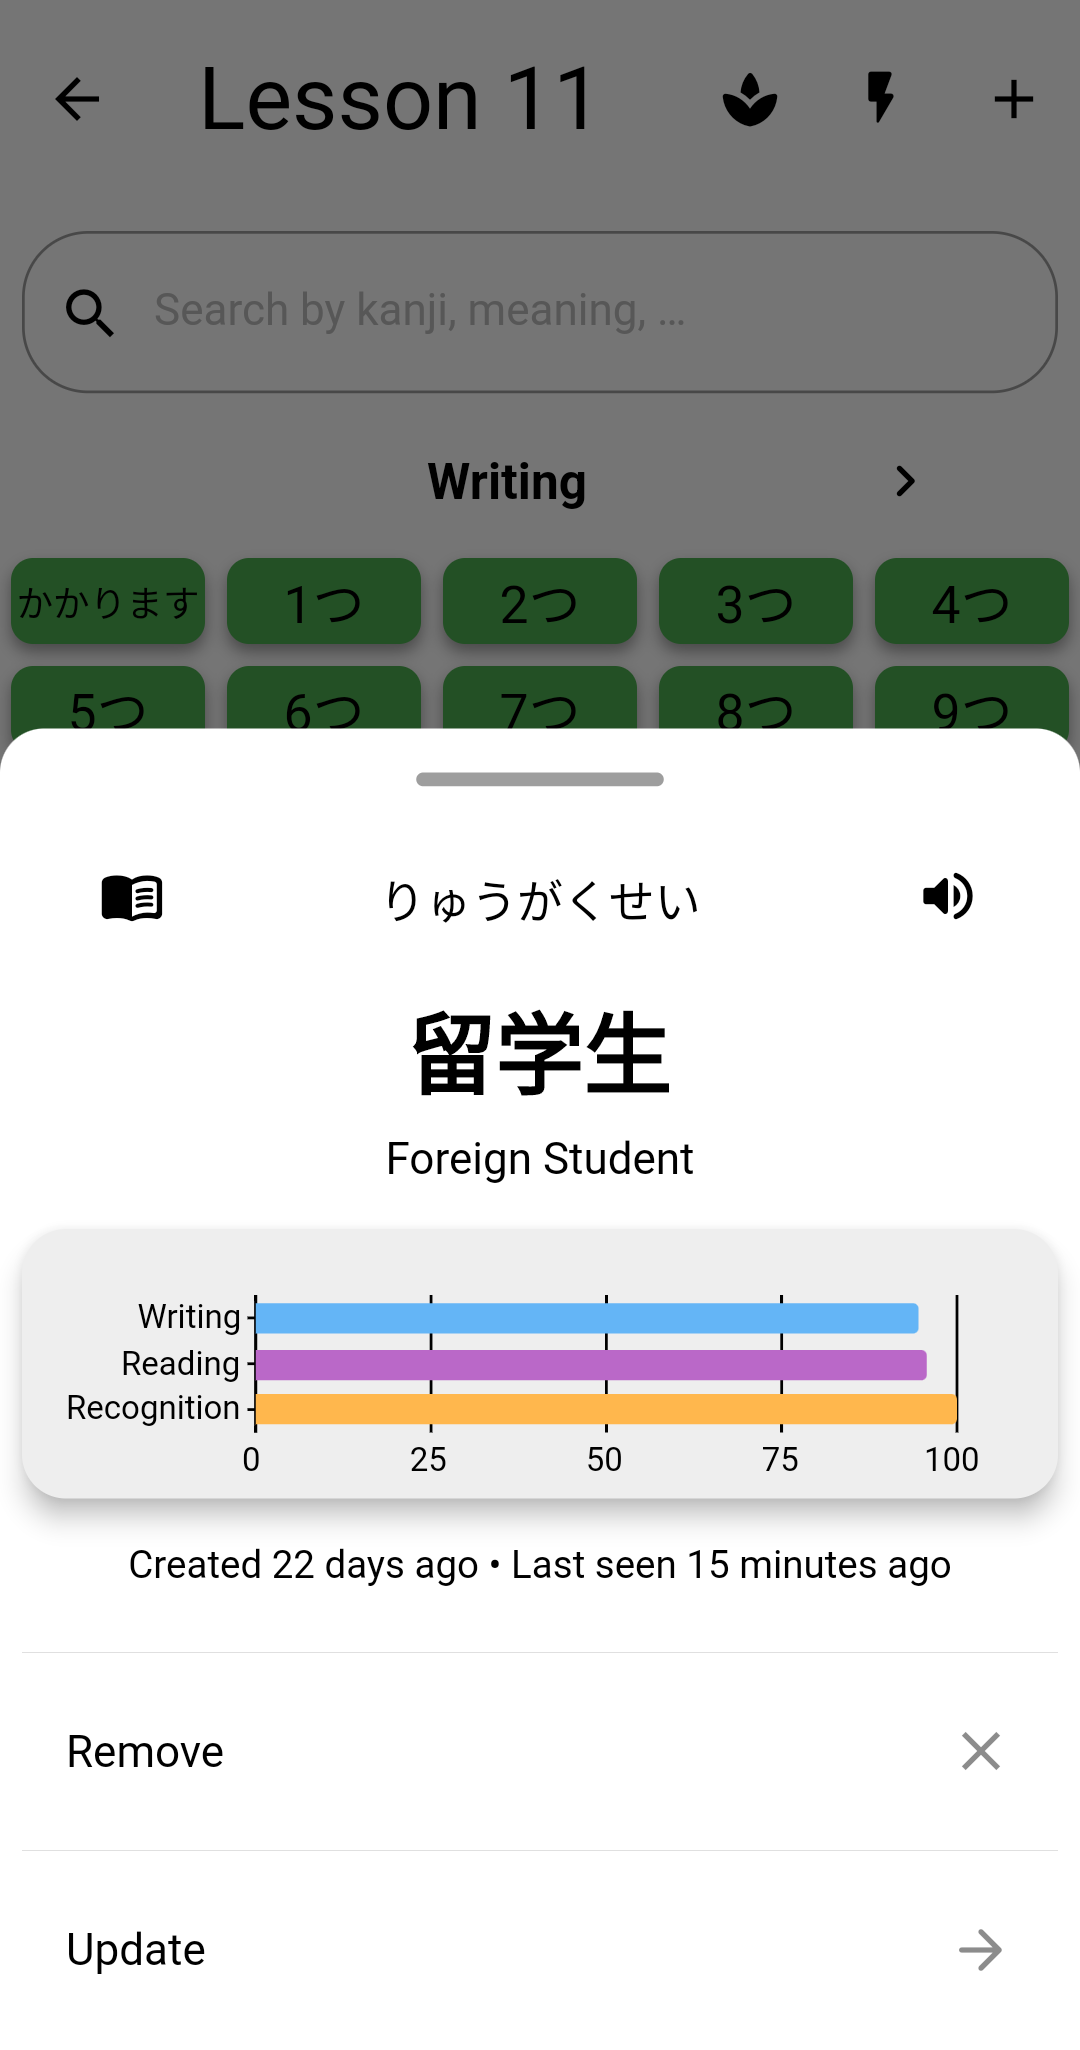
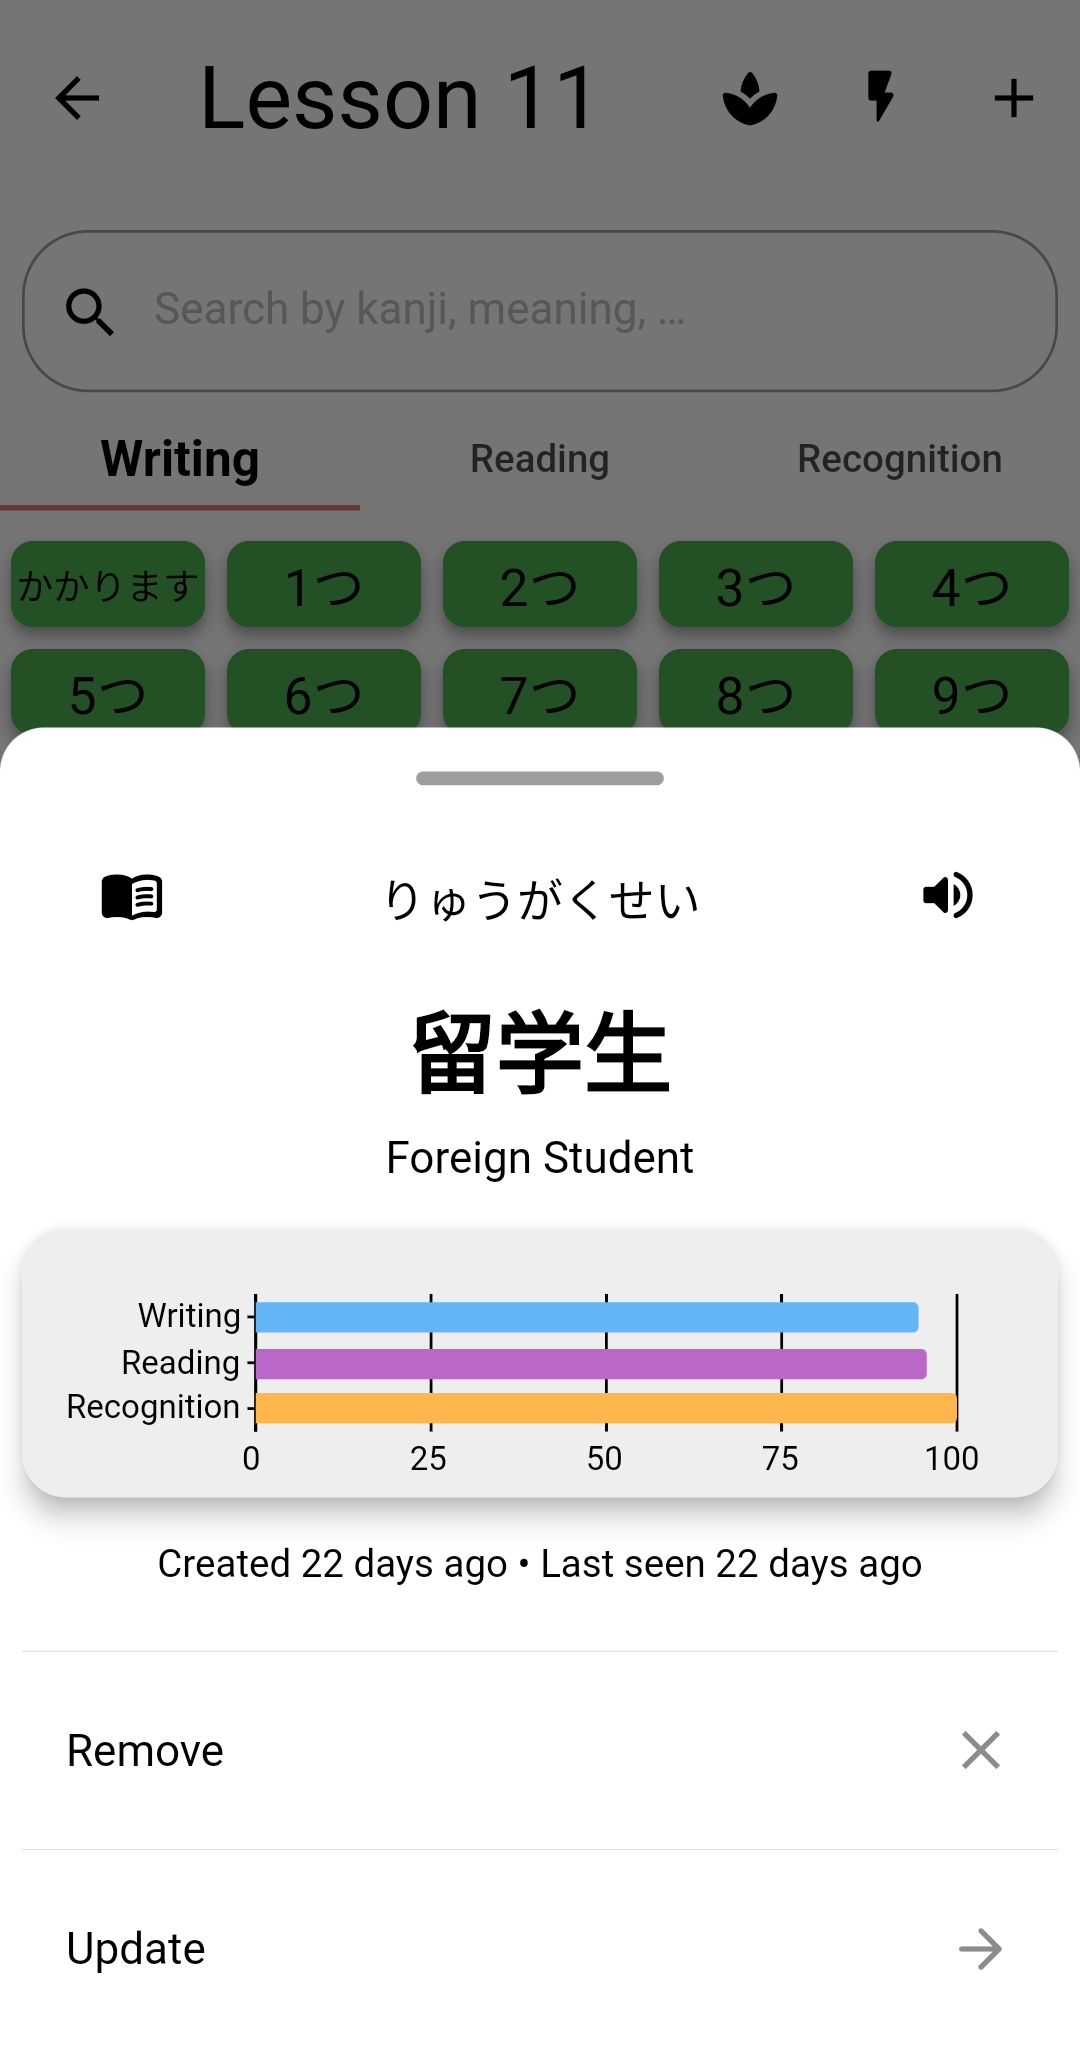
Changed mode view in kan list details

diff --git a/lib/ui/pages/kanji_list_details/list_details.dart b/lib/ui/pages/kanji_list_details/list_details.dart
@@ -47,10 +47,10 @@ class KanjiListDetails extends StatefulWidget {
   _KanjiListDetailsState createState() => _KanjiListDetailsState();
 }
 
-class _KanjiListDetailsState extends State<KanjiListDetails> {
+class _KanjiListDetailsState extends State<KanjiListDetails> with SingleTickerProviderStateMixin {
   KanjiListDetailBloc _bloc = KanjiListDetailBloc();
-  PageController _controller = PageController();
   FocusNode? _searchBarFn;
+  TabController? _tabController;
   StudyModes _selectedMode = StudyModes.writing;
   LearningMode _learningMode = LearningMode.spatial;
 
@@ -60,6 +60,8 @@ class _KanjiListDetailsState extends State<KanjiListDetails> {
   @override
   void initState() {
     _searchBarFn = FocusNode();
+    _tabController = TabController(length: StudyModes.values.length, vsync: this);
+    _tabController?.addListener(_tabControllerManagement);
     _searchBarFn?.addListener(_focusListener);
     _listName = widget.list.name;
     super.initState();
@@ -69,8 +71,15 @@ class _KanjiListDetailsState extends State<KanjiListDetails> {
   void dispose() {
     _searchBarFn?.removeListener(_focusListener);
     _searchBarFn?.dispose();
-    _controller.dispose();
+    _tabController?.dispose();
     super.dispose();
+  }
+
+  _tabControllerManagement() {
+    _searchBarFn?.unfocus();
+    setState(() {
+      _selectedMode = StudyModes.values[_tabController?.index ?? 0];
+    });
   }
 
   _focusListener() => setState(() => _searchHasFocus = (_searchBarFn?.hasFocus ?? false));
@@ -110,47 +119,34 @@ class _KanjiListDetailsState extends State<KanjiListDetails> {
     else GeneralUtils.getSnackBar(context, "list_details_loadUpPractice_failed".tr());
   }
 
-  _onChangePage(int newPage) {
+  _onModeChange(StudyModes newMode) {
     _searchBarFn?.unfocus();
     setState(() {
-      if (newPage == 0) _selectedMode = StudyModes.writing;
-      else if (newPage == 1) _selectedMode = StudyModes.reading;
+      if (newMode == StudyModes.writing) _selectedMode = StudyModes.writing;
+      else if (newMode == StudyModes.reading) _selectedMode = StudyModes.reading;
       else _selectedMode = StudyModes.recognition;
     });
-    _controller.animateToPage(newPage, duration: Duration(milliseconds: CustomAnimations.ms300),
+    _tabController?.animateTo(newMode.index,
+        duration: Duration(milliseconds: CustomAnimations.ms300),
         curve: Curves.easeInOut);
   }
 
   _updateSelectedModePageView(double pv) {
-    // Swiping in right direction.
-    if (pv < 0) {
-      switch (_selectedMode) {
-        case StudyModes.writing:
-          _onChangePage(1);
-          break;
-        case StudyModes.reading:
-          _onChangePage(2);
-          break;
-        case StudyModes.recognition:
-        default:
-          break;
-      }
-    }
-    // Swiping in left direction.
-    if (pv > 0) {
-      switch (_selectedMode) {
-        case StudyModes.reading:
-          _onChangePage(0);
-          break;
-        case StudyModes.recognition:
-          _onChangePage(1);
-          break;
-        case StudyModes.writing:
-        default:
-          break;
-      }
+    switch (_selectedMode) {
+      case StudyModes.writing:
+        if (pv < 0) _onModeChange(StudyModes.reading);
+        break;
+      case StudyModes.reading:
+        if (pv < 0) _onModeChange(StudyModes.recognition);
+        else if (pv > 0) _onModeChange(StudyModes.writing);
+        break;
+      case StudyModes.recognition:
+        if (pv > 0) _onModeChange(StudyModes.reading);
+        break;
     }
   }
+
+  _addLoadingEvent() => _bloc..add(KanjiEventLoading(_listName));
 
   _updateName(String name) {
     if (name.isNotEmpty) _bloc..add(UpdateKanList(name, _listName));
@@ -179,8 +175,6 @@ class _KanjiListDetailsState extends State<KanjiListDetails> {
     });
   }
 
-  _addLoadingEvent() => _bloc..add(KanjiEventLoading(_listName));
-
   @override
   Widget build(BuildContext context) {
     return WillPopScope(
@@ -192,52 +186,7 @@ class _KanjiListDetailsState extends State<KanjiListDetails> {
         } else return true;
       },
       child: Scaffold(
-        appBar: AppBar(
-          toolbarHeight: CustomSizes.appBarHeight,
-          title: BlocProvider<KanjiListDetailBloc>(
-            create: (_) => _addLoadingEvent(),
-            child: BlocBuilder<KanjiListDetailBloc, KanjiListDetailState>(
-              builder: (context, state) {
-                if (state is KanjiListDetailStateLoaded) {
-                  _listName = state.name;
-                  return FittedBox(
-                    fit: BoxFit.fitWidth,
-                    child: GestureDetector(
-                      onTap: () async => await _updateKanListName(),
-                      child: Text(state.name, overflow: TextOverflow.ellipsis),
-                    )
-                  );
-                }
-                else return Container();
-              },
-            ),
-          ),
-          actions: [
-            IconButton(
-              icon: Icon(_learningMode == LearningMode.spatial
-                  ? LearningMode.spatial.icon
-                  : LearningMode.random.icon),
-              onPressed: () => setState(() {
-                if (_learningMode == LearningMode.spatial) _learningMode = LearningMode.random;
-                else _learningMode = LearningMode.spatial;
-              }),
-            ),
-            IconButton(
-              onPressed: () async => await BlitzBottomSheet.callBlitzModeBottomSheet(
-                context, practiceList: _listName
-              ),
-              icon: Icon(Icons.flash_on_rounded),
-            ),
-            IconButton(
-              onPressed: () async {
-                await Navigator.of(context).pushNamed(KanPracticePages.addKanjiPage,
-                    arguments: AddKanjiArgs(listName: _listName))
-                    .then((code) => _addLoadingEvent());
-              },
-              icon: Icon(Icons.add),
-            ),
-          ],
-        ),
+        appBar: _appBar(),
         body: BlocProvider<KanjiListDetailBloc>(
           create: (_) => _addLoadingEvent(),
           child: SingleChildScrollView(
@@ -281,20 +230,67 @@ class _KanjiListDetailsState extends State<KanjiListDetails> {
     );
   }
 
+  AppBar _appBar() {
+    return AppBar(
+      toolbarHeight: CustomSizes.appBarHeight,
+      title: BlocProvider<KanjiListDetailBloc>(
+        create: (_) => _addLoadingEvent(),
+        child: BlocBuilder<KanjiListDetailBloc, KanjiListDetailState>(
+          builder: (context, state) {
+            if (state is KanjiListDetailStateLoaded) {
+              _listName = state.name;
+              return FittedBox(
+                  fit: BoxFit.fitWidth,
+                  child: GestureDetector(
+                    onTap: () async => await _updateKanListName(),
+                    child: Text(state.name, overflow: TextOverflow.ellipsis),
+                  )
+              );
+            }
+            else return Container();
+          },
+        ),
+      ),
+      actions: [
+        IconButton(
+          icon: Icon(_learningMode == LearningMode.spatial
+              ? LearningMode.spatial.icon
+              : LearningMode.random.icon),
+          onPressed: () => setState(() {
+            if (_learningMode == LearningMode.spatial) _learningMode = LearningMode.random;
+            else _learningMode = LearningMode.spatial;
+          }),
+        ),
+        IconButton(
+          onPressed: () async => await BlitzBottomSheet.callBlitzModeBottomSheet(
+              context, practiceList: _listName
+          ),
+          icon: Icon(Icons.flash_on_rounded),
+        ),
+        IconButton(
+          onPressed: () async {
+            await Navigator.of(context).pushNamed(KanPracticePages.addKanjiPage,
+                arguments: AddKanjiArgs(listName: _listName))
+                .then((code) => _addLoadingEvent());
+          },
+          icon: Icon(Icons.add),
+        ),
+      ],
+    );
+  }
+
   Column _body(KanjiListDetailStateLoaded state) {
     return Column(
       children: [
-        Container(
-          height: CustomSizes.defaultSizeLearningModeBar,
-          margin: EdgeInsets.only(bottom: Margins.margin8),
-          child: PageView(
-            controller: _controller,
-            children: [
-              _pageViewHeader(StudyModes.writing.mode),
-              _pageViewHeader(StudyModes.reading.mode),
-              _pageViewHeader(StudyModes.recognition.mode),
+        Padding(
+          padding: EdgeInsets.only(bottom: Margins.margin8),
+          child: TabBar(
+            controller: _tabController,
+            tabs: [
+              _tabBarElement(StudyModes.writing.mode),
+              _tabBarElement(StudyModes.reading.mode),
+              _tabBarElement(StudyModes.recognition.mode),
             ],
-            onPageChanged: (newPage) => _onChangePage(newPage),
           ),
         ),
         Expanded(
@@ -306,38 +302,24 @@ class _KanjiListDetailsState extends State<KanjiListDetails> {
             child: _kanjiList(state),
           )
         ),
-        Padding(
-          padding: EdgeInsets.only(bottom: Margins.margin8),
-          child: CustomButton(
-            title1: "list_details_practice_button_label_ext".tr(),
-            title2: "${"list_details_practice_button_label".tr()}\n(${
-              _learningMode == LearningMode.spatial
-                  ? LearningMode.spatial.name : LearningMode.random.name
-            })",
-            width: MediaQuery.of(context).size.width / 2,
-            onTap: () async => await _loadUpPractice(state)
-          ),
+        CustomButton(
+          title1: "list_details_practice_button_label_ext".tr(),
+          title2: "${"list_details_practice_button_label".tr()}\n(${
+            _learningMode == LearningMode.spatial
+                ? LearningMode.spatial.name : LearningMode.random.name
+          })",
+          width: MediaQuery.of(context).size.width / 2,
+          onTap: () async => await _loadUpPractice(state)
         )
       ],
     );
   }
 
-  Row _pageViewHeader(String mode) {
-    return Row(
-      mainAxisAlignment: MainAxisAlignment.spaceAround,
-      children: [
-        Visibility(
-          visible: _selectedMode != StudyModes.writing,
-          child: Icon(Icons.keyboard_arrow_left_rounded)
-        ),
-        Text(mode, textAlign: TextAlign.center,
-            style: TextStyle(fontSize: FontSizes.fontSize18,
-                fontWeight: FontWeight.bold)),
-        Visibility(
-          visible: _selectedMode != StudyModes.recognition,
-          child: Icon(Icons.keyboard_arrow_right_rounded),
-        ),
-      ],
+  Widget _tabBarElement(String mode) {
+    return Container(
+      height: CustomSizes.defaultSizeLearningModeBar,
+      alignment: Alignment.center,
+      child: Text(mode, textAlign: TextAlign.center),
     );
   }
 

diff --git a/lib/ui/widgets/CustomSearchBar.dart b/lib/ui/widgets/CustomSearchBar.dart
@@ -13,13 +13,16 @@ class CustomSearchBar extends StatefulWidget {
   /// [FocusNode] of the search bar created in the parent widget
   final FocusNode? focus;
   /// Padding to apply to the search bar, defaults to 8
-  final double padding;
+  final double top, bottom, right, left;
   CustomSearchBar({
     required this.onQuery,
     required this.onExitSearch,
     required this.hint,
     required this.focus,
-    this.padding = Margins.margin8
+    this.top = Margins.margin8,
+    this.bottom = 0,
+    this.left = Margins.margin8,
+    this.right = Margins.margin8
   });
 
   @override
@@ -49,7 +52,10 @@ class _CustomSearchBarState extends State<CustomSearchBar> {
   Widget build(BuildContext context) {
     return Container(
       child: Padding(
-        padding: EdgeInsets.all(widget.padding),
+        padding: EdgeInsets.only(
+          left: widget.left, right: widget.right,
+          top: widget.top, bottom: widget.bottom
+        ),
         child: Column(children: <Widget>[
           Padding(
             padding: EdgeInsets.only(bottom: Margins.margin8),

diff --git a/lib/ui/pages/kanji_lists/kanji_lists.dart b/lib/ui/pages/kanji_lists/kanji_lists.dart
@@ -8,13 +8,11 @@ import 'package:kanpractice/core/utils/GeneralUtils.dart';
 import 'package:kanpractice/ui/pages/kanji_lists/bloc/lists_bloc.dart';
 import 'package:kanpractice/ui/pages/kanji_lists/filters.dart';
 import 'package:kanpractice/ui/pages/kanji_lists/widgets/TestBottomSheet.dart';
-import 'package:kanpractice/ui/widgets/BlitzBottomSheet.dart';
 import 'package:kanpractice/ui/widgets/CustomSearchBar.dart';
 import 'package:kanpractice/ui/pages/kanji_lists/widgets/KanListTile.dart';
 import 'package:kanpractice/ui/widgets/EmptyList.dart';
 import 'package:kanpractice/ui/theme/consts.dart';
 import 'package:kanpractice/ui/widgets/CustomAlertDialog.dart';
-import 'package:kanpractice/ui/pages/kanji_lists/widgets/StudyBottomSheet.dart';
 import 'package:kanpractice/ui/widgets/CustomTextForm.dart';
 import 'package:kanpractice/ui/widgets/ProgressIndicator.dart';
 import 'package:package_info/package_info.dart';

diff --git a/lib/ui/theme/light.dart b/lib/ui/theme/light.dart
@@ -91,5 +91,14 @@ final ThemeData light = ThemeData(
         disabledColor: Colors.grey,
         labelStyle: TextStyle(color: _primary),
         secondarySelectedColor: _accent
+    ),
+    tabBarTheme: TabBarTheme(
+        labelColor: Colors.black,
+        labelStyle: TextStyle(fontSize: FontSizes.fontSize18, fontWeight: FontWeight.bold),
+        indicator: ShapeDecoration(
+          shape: UnderlineInputBorder(
+              borderSide: BorderSide(color: CustomColors.secondarySubtleColor,
+                  width: 2, style: BorderStyle.solid)),
+        )
     )
 );

diff --git a/lib/ui/theme/dark.dart b/lib/ui/theme/dark.dart
@@ -91,5 +91,14 @@ final ThemeData dark = ThemeData(
         disabledColor: Colors.grey,
         labelStyle: TextStyle(color: _accent),
         secondarySelectedColor: _accent
+    ),
+    tabBarTheme: TabBarTheme(
+        labelColor: Colors.white,
+        labelStyle: TextStyle(fontSize: FontSizes.fontSize18, fontWeight: FontWeight.bold),
+        indicator: ShapeDecoration(
+          shape: UnderlineInputBorder(
+              borderSide: BorderSide(color: CustomColors.secondarySubtleColor,
+                  width: 2, style: BorderStyle.solid)),
+        )
     )
 );
